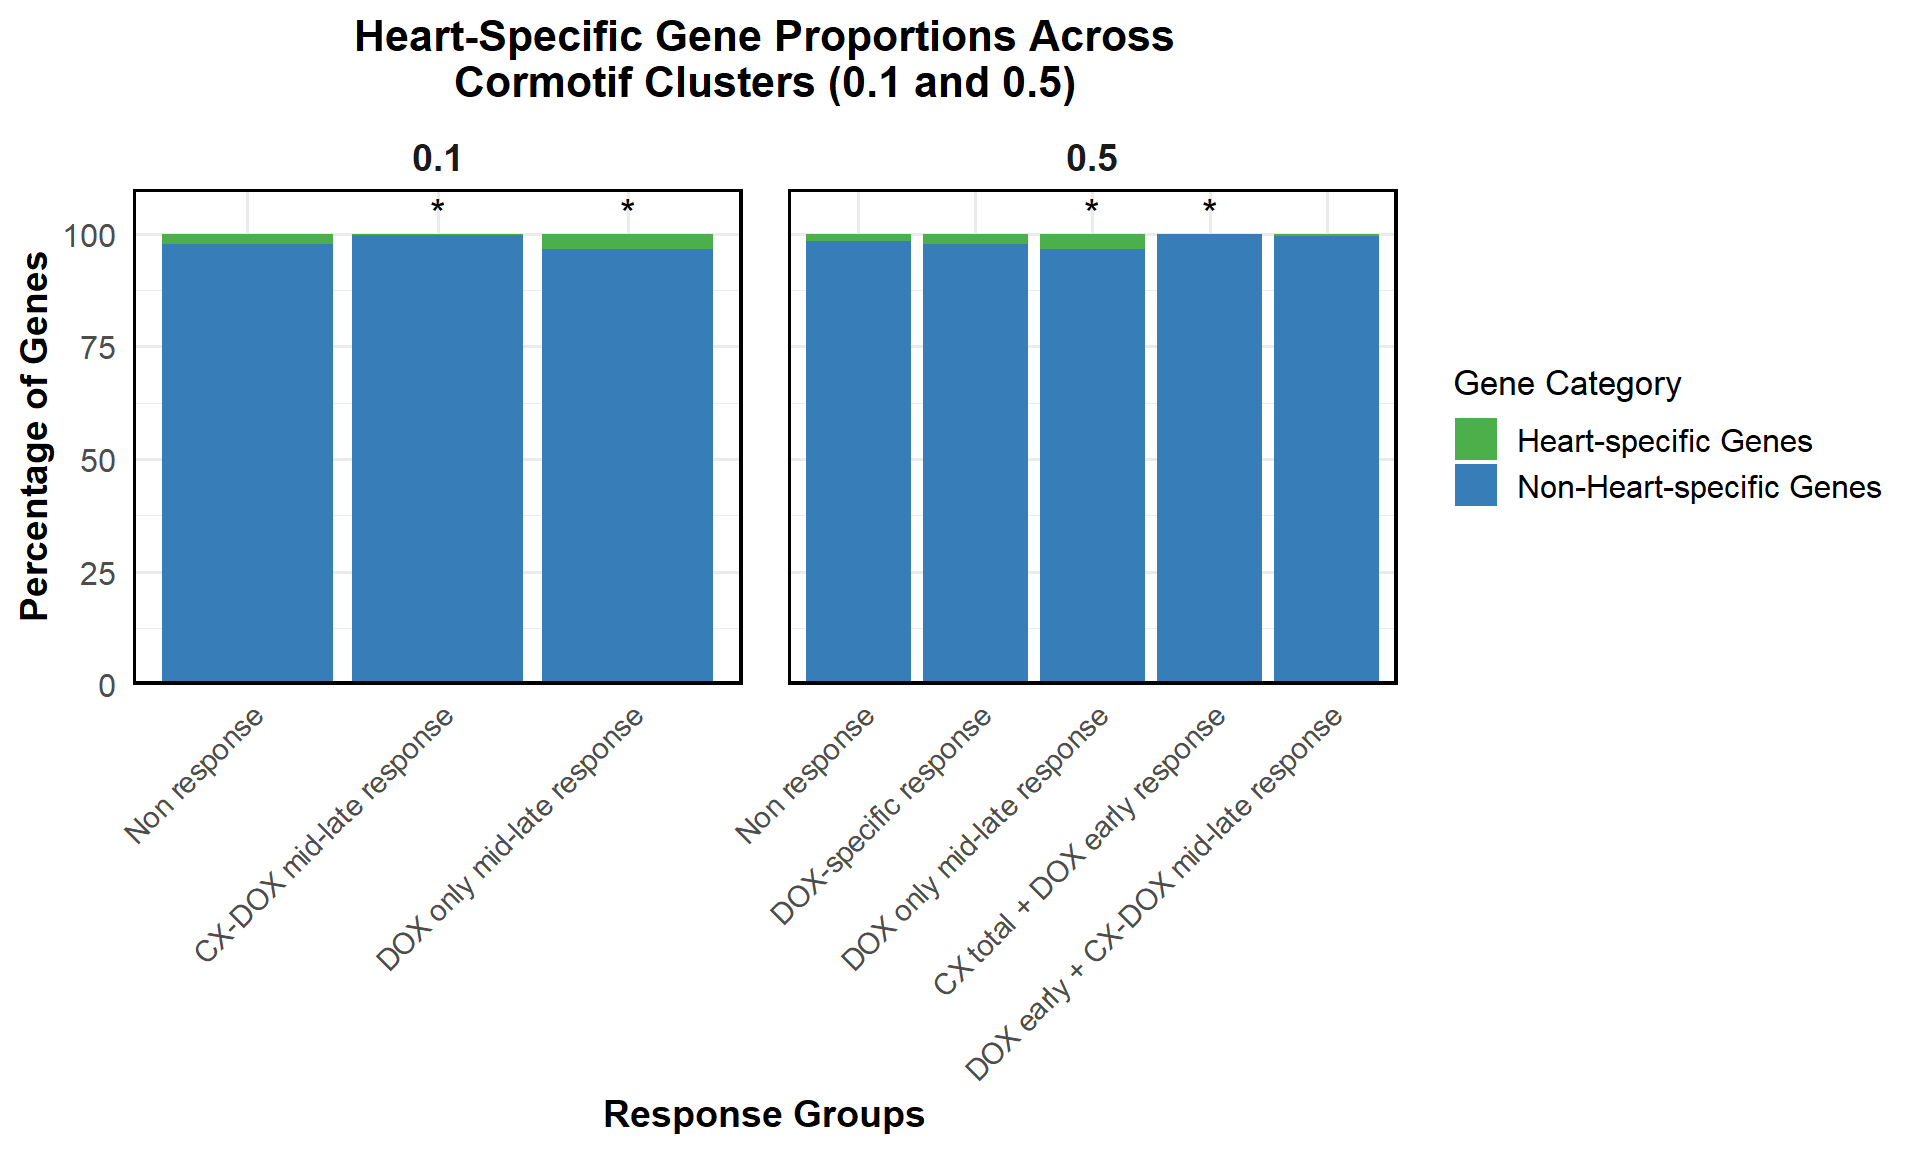
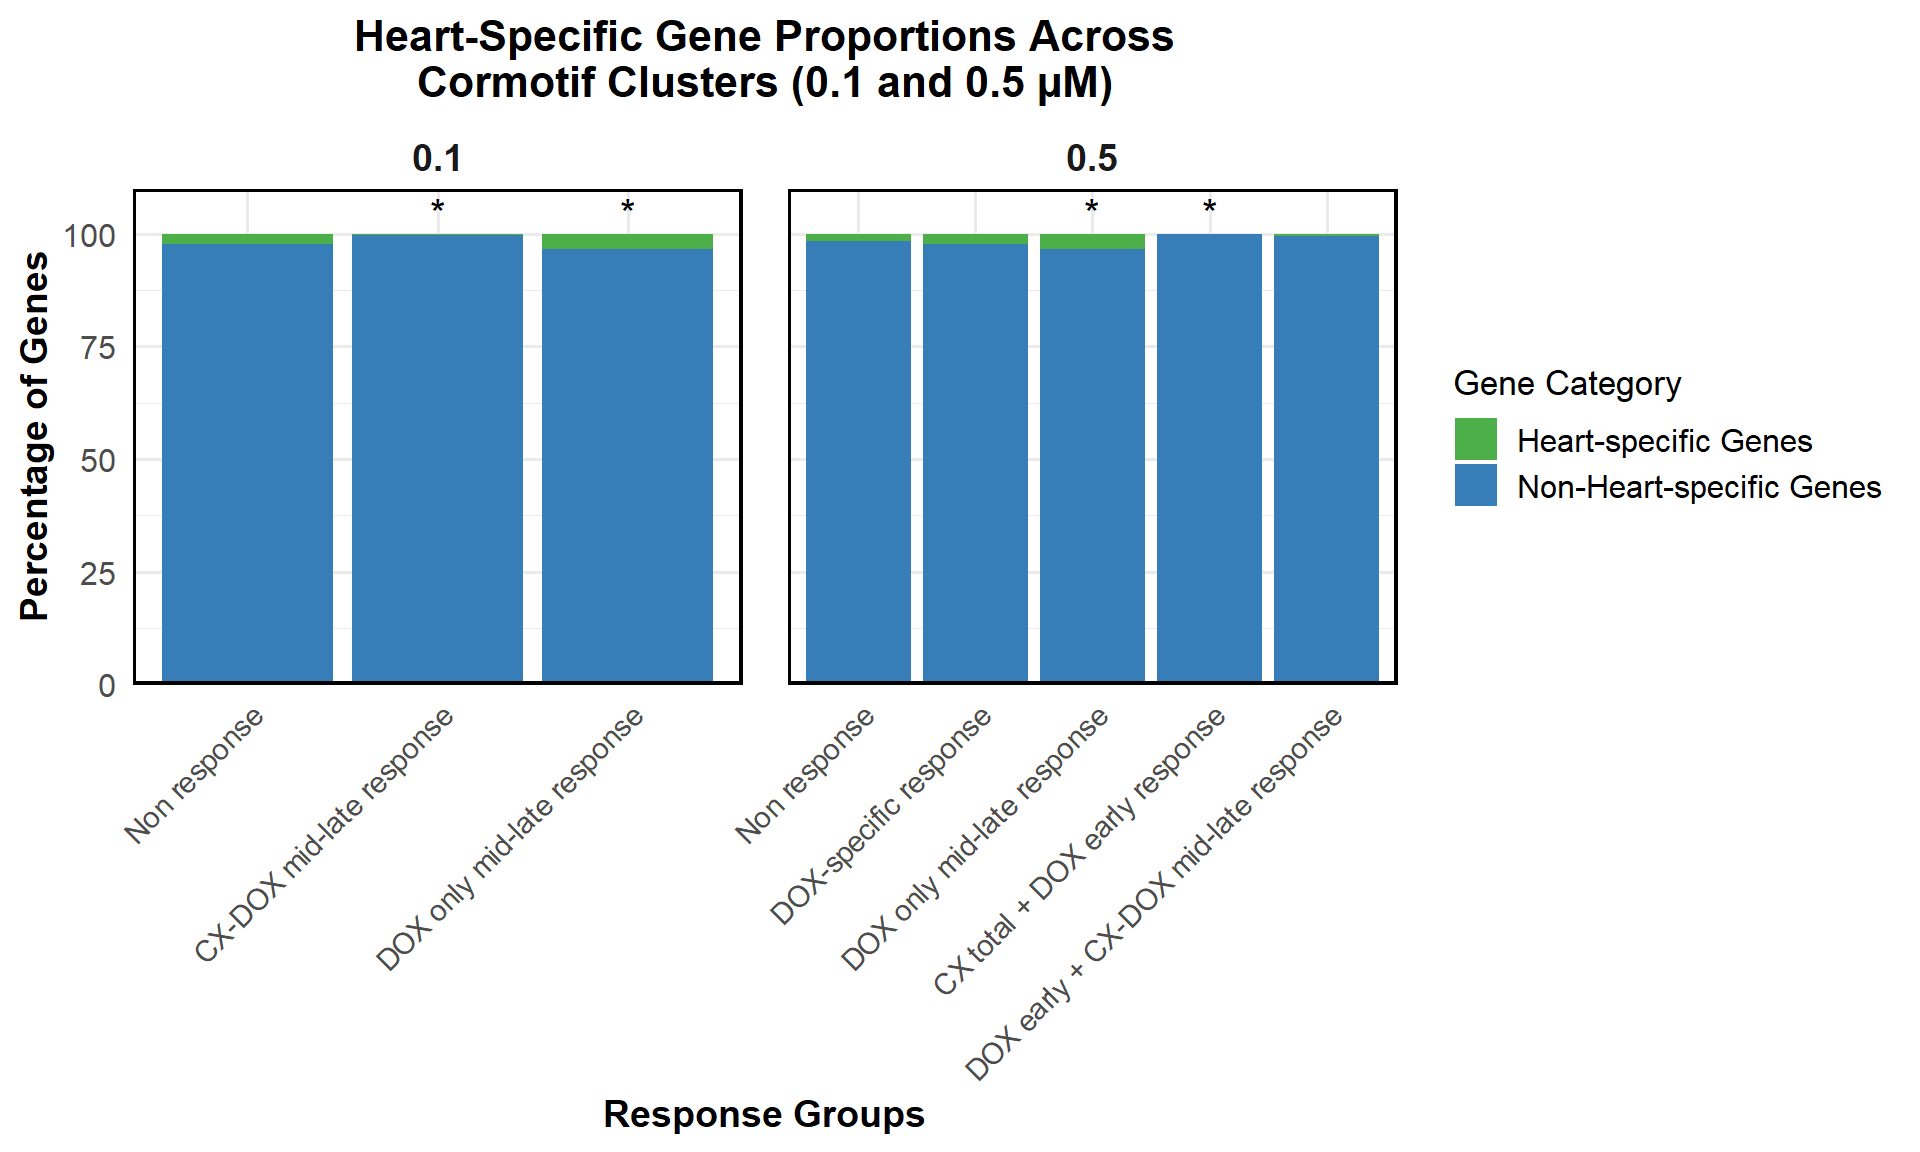
Commit

Changed region(s): [[0.2188, 0.0312, 0.5938, 0.0938]]

diff --git a/docs/Corrmotif_Conc.html b/docs/Corrmotif_Conc.html
@@ -512,15 +512,15 @@ project makes it easier to run your code on other machines.</p>
 <div class="panel panel-default">
 <div class="panel-heading">
 <p class="panel-title">
-<a data-toggle="collapse" data-parent="#workflowr-checks" href="#strongRepositoryversionstrongahrefhttpsgithubcomsayanpaul01CX5461Projecttree84d97de4e606ee3f7bdc50b96e98bf91fd77fd25targetblank84d97dea">
+<a data-toggle="collapse" data-parent="#workflowr-checks" href="#strongRepositoryversionstrongahrefhttpsgithubcomsayanpaul01CX5461Projecttreec34034d445fbde68383282984408fd62bb538179targetblankc34034da">
 <span class="glyphicon glyphicon-ok text-success"
 aria-hidden="true"></span> <strong>Repository version:</strong>
-<a href="https://github.com/sayanpaul01/CX5461_Project/tree/84d97de4e606ee3f7bdc50b96e98bf91fd77fd25" target="_blank">84d97de</a>
+<a href="https://github.com/sayanpaul01/CX5461_Project/tree/c34034d445fbde68383282984408fd62bb538179" target="_blank">c34034d</a>
 </a>
 </p>
 </div>
 <div
[2 lines of base64/hex data omitted]
 class="panel-collapse collapse">
 <div class="panel-body">
 <p>
@@ -530,7 +530,7 @@ reproducibility.
 </p>
 <p>
 The results in this page were generated with repository version
-<a href="https://github.com/sayanpaul01/CX5461_Project/tree/84d97de4e606ee3f7bdc50b96e98bf91fd77fd25" target="_blank">84d97de</a>.
+<a href="https://github.com/sayanpaul01/CX5461_Project/tree/c34034d445fbde68383282984408fd62bb538179" target="_blank">c34034d</a>.
 See the <em>Past versions</em> tab to see a history of the changes made
 to the R Markdown and HTML files.
 </p>
@@ -715,6 +715,40 @@ Message
 </tr>
 </thead>
 <tbody>
+<tr>
+<td>
+Rmd
+</td>
+<td>
+<a href="https://github.com/sayanpaul01/CX5461_Project/blob/c34034d445fbde68383282984408fd62bb538179/analysis/Corrmotif_Conc.Rmd" target="_blank">c34034d</a>
+</td>
+<td>
+sayanpaul01
+</td>
+<td>
+2025-06-26
+</td>
+<td>
+Commit
+</td>
+</tr>
+<tr>
+<td>
+html
+</td>
+<td>
+<a href="https://rawcdn.githack.com/sayanpaul01/CX5461_Project/c34034d445fbde68383282984408fd62bb538179/docs/Corrmotif_Conc.html" target="_blank">c34034d</a>
+</td>
+<td>
+sayanpaul01
+</td>
+<td>
+2025-06-26
+</td>
+<td>
+Commit
+</td>
+</tr>
 <tr>
 <td>
 Rmd
@@ -11779,12 +11813,12 @@ heart_genes$Entrez_ID &lt;- mapIds(
 heart_entrez_ids &lt;- na.omit(heart_genes$Entrez_ID)
 
 # ----------------- Load CorrMotif Groups -----------------
-# 0.1 µM
+# 0.1
 prob_1_0.1 &lt;- as.character(read.csv(&quot;data/prob_1_0.1.csv&quot;)$Entrez_ID)
 prob_2_0.1 &lt;- as.character(read.csv(&quot;data/prob_2_0.1.csv&quot;)$Entrez_ID)
 prob_3_0.1 &lt;- as.character(read.csv(&quot;data/prob_3_0.1.csv&quot;)$Entrez_ID)
 
-# 0.5 µM
+# 0.5
 prob_1_0.5 &lt;- as.character(read.csv(&quot;data/prob_1_0.5.csv&quot;)$Entrez_ID)
 prob_2_0.5 &lt;- as.character(read.csv(&quot;data/prob_2_0.5.csv&quot;)$Entrez_ID)
 prob_3_0.5 &lt;- as.character(read.csv(&quot;data/prob_3_0.5.csv&quot;)$Entrez_ID)
@@ -11821,20 +11855,23 @@ df_combined &lt;- bind_rows(df_0.1, df_0.5)
 
 # ----------------- Calculate Proportions -----------------
 proportion_data &lt;- df_combined %&gt;%
-  dplyr::group_by(Concentration, Response_Group, Category) %&gt;%
-  dplyr::summarise(Count = n(), .groups = &quot;drop&quot;) %&gt;%
-  dplyr::group_by(Concentration, Response_Group) %&gt;%
-  dplyr::mutate(Percentage = Count / sum(Count) * 100)
+  group_by(Concentration, Response_Group, Category) %&gt;%
+  summarise(Count = n(), .groups = &quot;drop&quot;) %&gt;%
+  group_by(Concentration, Response_Group) %&gt;%
+  mutate(Percentage = Count / sum(Count) * 100)
 
-# ----------------- Chi-square Test Only -----------------
-get_chi_square &lt;- function(df, ref_group) {
+# ----------------- Fisher&#39;s Exact Test -----------------
+run_fisher_test &lt;- function(df, ref_group) {
+  # Get reference counts
   ref_counts &lt;- df %&gt;%
     dplyr::ungroup() %&gt;%
     dplyr::filter(Response_Group == ref_group) %&gt;%
     dplyr::select(Category, Count) %&gt;%
     {setNames(.$Count, .$Category)}
   
+  # Run Fisher test for each group vs. reference
   df %&gt;%
+    dplyr::ungroup() %&gt;%
     dplyr::filter(Response_Group != ref_group) %&gt;%
     dplyr::group_by(Response_Group) %&gt;%
     dplyr::summarise(
@@ -11845,31 +11882,25 @@ get_chi_square &lt;- function(df, ref_group) {
           group_counts[1], group_counts[2],
           ref_counts[&quot;Heart-specific Genes&quot;], ref_counts[&quot;Non-Heart-specific Genes&quot;]
         ), nrow = 2)
-        chisq.test(contingency_table)$p.value
+        fisher.test(contingency_table)$p.value
       },
       .groups = &quot;drop&quot;
     ) %&gt;%
     dplyr::mutate(Significance = ifelse(!is.na(p_value) &amp; p_value &lt; 0.05, &quot;*&quot;, &quot;&quot;))
 }
 
-# Run Chi-square tests
-chi_0.1 &lt;- get_chi_square(proportion_data %&gt;% dplyr::filter(Concentration == &quot;0.1&quot;), &quot;Non response&quot;)
-chi_0.5 &lt;- get_chi_square(proportion_data %&gt;% dplyr::filter(Concentration == &quot;0.5&quot;), &quot;Non response&quot;)</code></pre>
-<pre><code>Warning: There were 2 warnings in `dplyr::summarise()`.
-The first warning was:
-ℹ In argument: `p_value = { ... }`.
-ℹ In group 2: `Response_Group = &quot;DOX early + CX-DOX mid-late response&quot;`.
-Caused by warning in `chisq.test()`:
-! Chi-squared approximation may be incorrect
-ℹ Run `dplyr::last_dplyr_warnings()` to see the 1 remaining warning.</code></pre>
-<pre class="r"><code>chi_all &lt;- bind_rows(
-  chi_0.1 %&gt;% mutate(Concentration = &quot;0.1&quot;),
-  chi_0.5 %&gt;% mutate(Concentration = &quot;0.5&quot;)
+# Run Fisher test
+fisher_0.1 &lt;- run_fisher_test(proportion_data %&gt;% filter(Concentration == &quot;0.1&quot;), &quot;Non response&quot;)
+fisher_0.5 &lt;- run_fisher_test(proportion_data %&gt;% filter(Concentration == &quot;0.5&quot;), &quot;Non response&quot;)
+
+fisher_all &lt;- bind_rows(
+  fisher_0.1 %&gt;% mutate(Concentration = &quot;0.1&quot;),
+  fisher_0.5 %&gt;% mutate(Concentration = &quot;0.5&quot;)
 )
 
-# Merge test results
+# ----------------- Merge Fisher Results -----------------
 proportion_data &lt;- proportion_data %&gt;%
-  left_join(chi_all, by = c(&quot;Concentration&quot;, &quot;Response_Group&quot;))
+  left_join(fisher_all, by = c(&quot;Concentration&quot;, &quot;Response_Group&quot;))
 
 # ----------------- Reorder Factor Levels -----------------
 proportion_data$Concentration &lt;- factor(proportion_data$Concentration, levels = c(&quot;0.1&quot;, &quot;0.5&quot;))
@@ -11882,7 +11913,7 @@ proportion_data$Response_Group &lt;- factor(proportion_data$Response_Group, leve
   &quot;DOX early + CX-DOX mid-late response&quot;
 ))
 
-# ----------------- Position Significance Stars -----------------
+# ----------------- Significance Star Labels -----------------
 label_data &lt;- proportion_data %&gt;%
   group_by(Concentration, Response_Group) %&gt;%
   summarise(Significance = dplyr::first(Significance), .groups = &quot;drop&quot;) %&gt;%
@@ -11906,7 +11937,7 @@ ggplot(proportion_data, aes(x = Response_Group, y = Percentage, fill = Category)
   )) +
   scale_y_continuous(limits = c(0, 110), expand = c(0, 0)) +
   labs(
-    title = &quot;Heart-Specific Gene Proportions Across\nCormotif Clusters (0.1 and 0.5)&quot;,
+    title = &quot;Heart-Specific Gene Proportions Across\nCormotif Clusters (0.1 and 0.5 µM)&quot;,
     x = &quot;Response Groups&quot;,
     y = &quot;Percentage of Genes&quot;,
     fill = &quot;Gene Category&quot;
@@ -11947,6 +11978,17 @@ Date
 </tr>
 </thead>
 <tbody>
+<tr>
+<td>
+<a href="https://github.com/sayanpaul01/CX5461_Project/blob/c34034d445fbde68383282984408fd62bb538179/docs/figure/Corrmotif_Conc.Rmd/prop heart comb-1.png" target="_blank">c34034d</a>
+</td>
+<td>
+sayanpaul01
+</td>
+<td>
+2025-06-26
+</td>
+</tr>
 <tr>
 <td>
 <a href="https://github.com/sayanpaul01/CX5461_Project/blob/305a6c0fadfece5ff62a8fa46cfc46d19d4e6070/docs/figure/Corrmotif_Conc.Rmd/prop heart comb-1.png" target="_blank">305a6c0</a>
@@ -12184,6 +12226,17 @@ Date
 <tbody>
 <tr>
 <td>
+<a href="https://github.com/sayanpaul01/CX5461_Project/blob/c34034d445fbde68383282984408fd62bb538179/docs/figure/Corrmotif_Conc.Rmd/Mean HS logFC-1.png" target="_blank">c34034d</a>
+</td>
+<td>
+sayanpaul01
+</td>
+<td>
+2025-06-26
+</td>
+</tr>
+<tr>
+<td>
 <a href="https://github.com/sayanpaul01/CX5461_Project/blob/305a6c0fadfece5ff62a8fa46cfc46d19d4e6070/docs/figure/Corrmotif_Conc.Rmd/Mean HS logFC-1.png" target="_blank">305a6c0</a>
 </td>
 <td>
@@ -12397,6 +12450,17 @@ Date
 <tbody>
 <tr>
 <td>
+<a href="https://github.com/sayanpaul01/CX5461_Project/blob/c34034d445fbde68383282984408fd62bb538179/docs/figure/Corrmotif_Conc.Rmd/Mean HS_2 logFC1-1.png" target="_blank">c34034d</a>
+</td>
+<td>
+sayanpaul01
+</td>
+<td>
+2025-06-26
+</td>
+</tr>
+<tr>
+<td>
 <a href="https://github.com/sayanpaul01/CX5461_Project/blob/305a6c0fadfece5ff62a8fa46cfc46d19d4e6070/docs/figure/Corrmotif_Conc.Rmd/Mean HS_2 logFC1-1.png" target="_blank">305a6c0</a>
 </td>
 <td>
@@ -12577,6 +12641,17 @@ Date
 <tbody>
 <tr>
 <td>
+<a href="https://github.com/sayanpaul01/CX5461_Project/blob/c34034d445fbde68383282984408fd62bb538179/docs/figure/Corrmotif_Conc.Rmd/Mean HS_3 logFC3-1.png" target="_blank">c34034d</a>
+</td>
+<td>
+sayanpaul01
+</td>
+<td>
+2025-06-26
+</td>
+</tr>
+<tr>
+<td>
 <a href="https://github.com/sayanpaul01/CX5461_Project/blob/305a6c0fadfece5ff62a8fa46cfc46d19d4e6070/docs/figure/Corrmotif_Conc.Rmd/Mean HS_3 logFC3-1.png" target="_blank">305a6c0</a>
 </td>
 <td>
@@ -12754,6 +12829,17 @@ Date
 </tr>
 </thead>
 <tbody>
+<tr>
+<td>
+<a href="https://github.com/sayanpaul01/CX5461_Project/blob/c34034d445fbde68383282984408fd62bb538179/docs/figure/Corrmotif_Conc.Rmd/Mean HS_3 logFC3-2.png" target="_blank">c34034d</a>
+</td>
+<td>
+sayanpaul01
+</td>
+<td>
+2025-06-26
+</td>
+</tr>
 <tr>
 <td>
 <a href="https://github.com/sayanpaul01/CX5461_Project/blob/305a6c0fadfece5ff62a8fa46cfc46d19d4e6070/docs/figure/Corrmotif_Conc.Rmd/Mean HS_3 logFC3-2.png" target="_blank">305a6c0</a>
@@ -13432,6 +13518,17 @@ Date
 </tr>
 </thead>
 <tbody>
+<tr>
+<td>
+<a href="https://github.com/sayanpaul01/CX5461_Project/blob/c34034d445fbde68383282984408fd62bb538179/docs/figure/Corrmotif_Conc.Rmd/Mean AF logFC_2 logFC1-1.png" target="_blank">c34034d</a>
+</td>
+<td>
+sayanpaul01
+</td>
+<td>
+2025-06-26
+</td>
+</tr>
 <tr>
 <td>
 <a href="https://github.com/sayanpaul01/CX5461_Project/blob/305a6c0fadfece5ff62a8fa46cfc46d19d4e6070/docs/figure/Corrmotif_Conc.Rmd/Mean AF logFC_2 logFC1-1.png" target="_blank">305a6c0</a>
